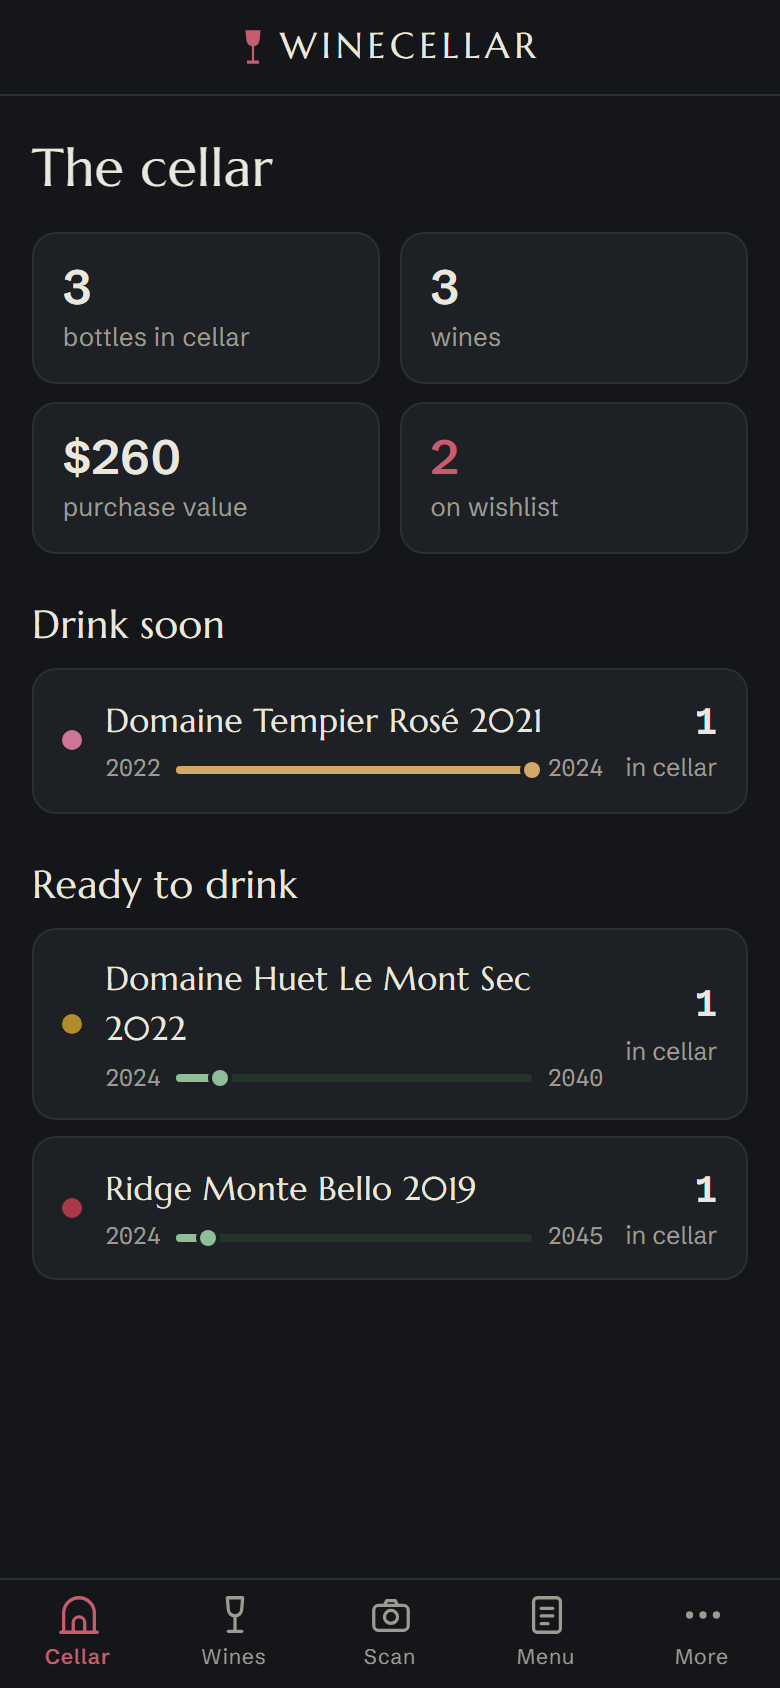
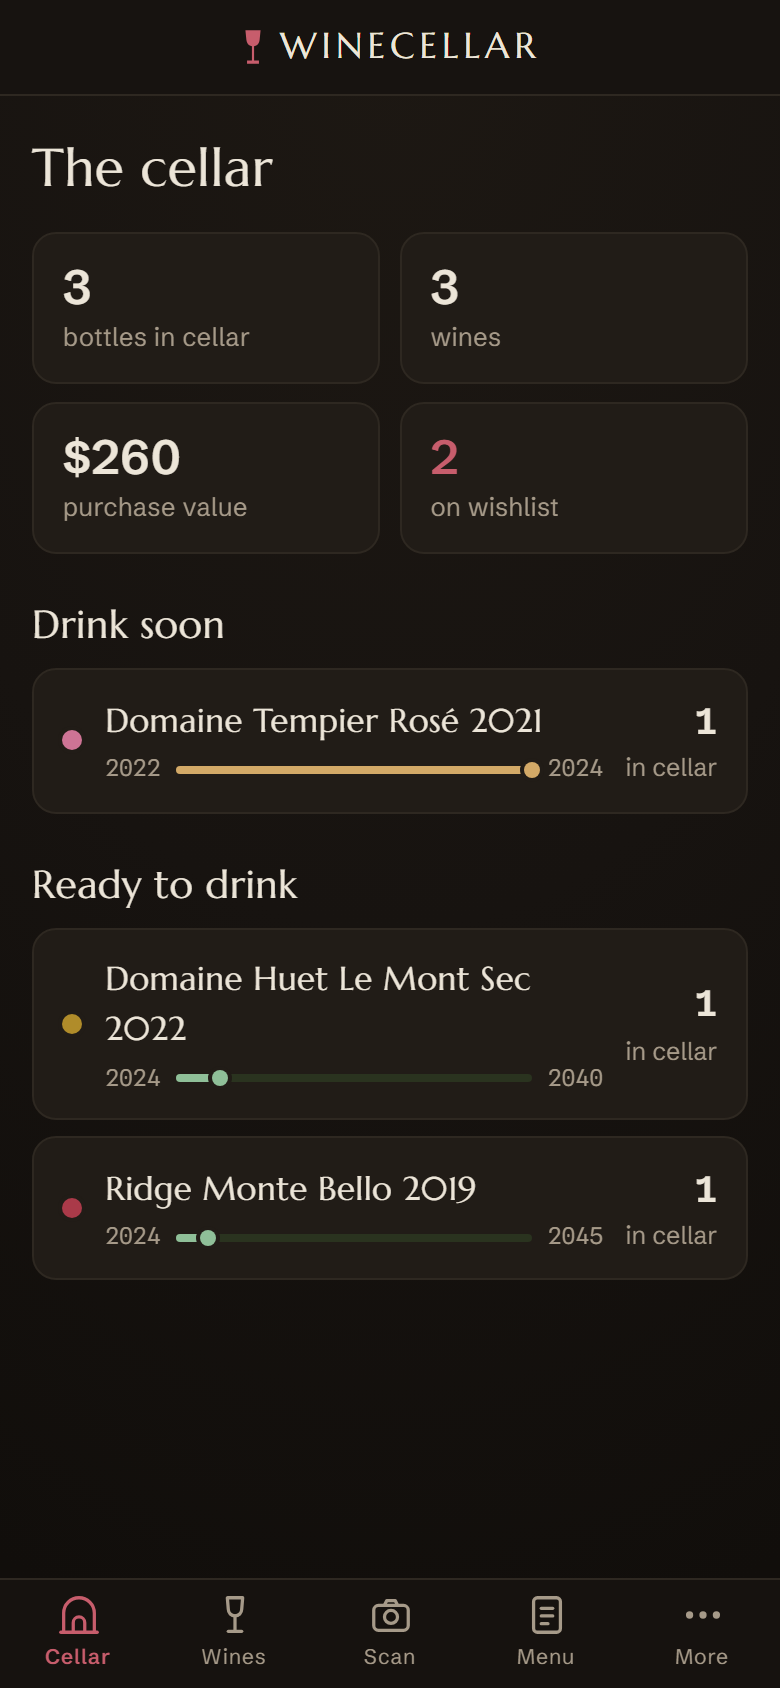
dark theme: the lodge — warm umber + lamplight vignette
Replaces the cool-slate dark ground (read as generic near-black) with
chalk-on-old-oak after the Cockburn's port lodges in Porto (the owner's
reference). Dark UMBER deliberately, not barrel-brown — the ground must
stay outside the wine gamut or the straw dots and tawny gauges dissolve
(dots revalidated against #211C17, same results). Vignette via fixed
body::before (iOS ignores background-attachment: fixed); translucent
blurred header; theme-color + design book updated, plates retaken.

Changed region(s): [[0.1538, 0.7085, 0.1846, 0.7393], [0.1231, 0.1848, 0.1538, 0.2156], [0.0923, 0.2773, 0.1231, 0.3081]]

diff --git a/static/css/app.css b/static/css/app.css
@@ -57,25 +57,45 @@
 
 @media (prefers-color-scheme: dark) {
     :root {
-        /* the cellar: warm chalk on cool slate */
-        --bg: #141619;
-        --surface: #1D2024;
-        --surface-alt: #282B30;
-        --ink: #EAE7DE;
-        --ink-muted: #9C9A91;
-        --line: #34373C;
-        --hairline: #2B2E33;
+        /* the lodge: chalk on old oak, lamplight falling off at the edges
+           (after the Cockburn's port lodges, Porto — the owner, 2026-07-16).
+           Dark UMBER, deliberately not barrel-brown: any lighter/browner and
+           the straw dots + tawny gauges dissolve into the ground (measured —
+           dots revalidated against #211C17, see docs/design.md). */
+        --bg: #171310;
+        --surface: #211C17;
+        --surface-alt: #2C2620;
+        --ink: #ECE5D8;
+        --ink-muted: #A69A89;
+        --line: #3A332A;
+        --hairline: #2E2821;
         --accent: #C75D6C;
         --accent-strong: #B24B5B;
-        --on-accent: #16181B;
-        --ok: #8FBF98;      --ok-soft: #243428;
-        --info: #9FB4D8;    --info-soft: #232B3A;
-        --warn: #D3A967;    --warn-soft: #352B1B;
-        --bad: #DA8A7B;     --bad-soft: #3B241F;
+        --on-accent: #1B1613;
+        --ok: #8FBF98;      --ok-soft: #2A331F;
+        --info: #9FB4D8;    --info-soft: #272C36;
+        --warn: #D3A967;    --warn-soft: #372C19;
+        --bad: #DA8A7B;     --bad-soft: #3B241C;
         --glass-red: #AA3A49;
         --glass-white: #B08C2A;
         --glass-rose: #CE7495;
-        --tab-bg: rgba(20, 22, 25, 0.9);
+        --tab-bg: rgba(23, 19, 16, 0.9);
+    }
+
+    /* The vignette: a fixed lamplight falloff behind everything.
+       (A ::before layer, not background-attachment — iOS ignores `fixed`.) */
+    body::before {
+        content: "";
+        position: fixed;
+        inset: 0;
+        z-index: -1;
+        background: radial-gradient(130% 100% at 50% 0%, #1D1813 0%, #171310 55%, #110E0B 100%);
+    }
+
+    .site-header {
+        background: rgba(29, 24, 19, 0.88);
+        -webkit-backdrop-filter: blur(10px);
+        backdrop-filter: blur(10px);
     }
 }
 

diff --git a/templates/base.html b/templates/base.html
@@ -15,7 +15,7 @@
     <meta name="apple-mobile-web-app-status-bar-style" content="black-translucent">
     <meta name="apple-mobile-web-app-title" content="Winecellar">
     <meta name="theme-color" media="(prefers-color-scheme: light)" content="#F2F1EC">
-    <meta name="theme-color" media="(prefers-color-scheme: dark)" content="#141619">
+    <meta name="theme-color" media="(prefers-color-scheme: dark)" content="#171310">
 </head>
 <body>
 <header class="site-header">

diff --git a/docs/design.md b/docs/design.md
@@ -5,6 +5,14 @@ book — engraved estate type, ledger numerals, and the colors of wine itself.
 Designed **dark-first** (a cellar is dark; the app gets used in dim restaurants
 and at the rack); light mode is the tasting sheet.
 
+Dark is **"the lodge"**: chalk on old oak with a lamplight vignette, after the
+Cockburn's port lodges in Porto (the owner's reference, 2026-07-16 — it replaced an
+earlier cool-slate ground that read as generic near-black). It is dark *umber*,
+deliberately not barrel-brown: the ground sits just outside the wine gamut so
+the straw dots and tawny gauges stay legible — any lighter/browner and they
+dissolve (measured; dots revalidated against `#211C17`, same results as slate,
+garnet WARN 2.74 with the always-present type word as relief).
+
 ## The book — reference plates
 
 Committed renders of the shipped identity (iPhone size, seeded demo data).
@@ -18,12 +26,12 @@ workflow at the bottom of this doc.
 
 ## Grounds
 
-| Token | Light ("tasting sheet") | Dark ("the cellar") |
+| Token | Light ("tasting sheet") | Dark ("the lodge") |
 |---|---|---|
-| `--bg` | `#F2F1EC` cool bone (deliberately not warm cream) | `#141619` cool slate |
-| `--surface` | `#FBFAF7` | `#1D2024` |
-| `--surface-alt` | `#E9E8E1` | `#282B30` |
-| `--ink` | `#26282B` graphite | `#EAE7DE` **warm chalk** (chalk-on-slate is the dark identity) |
+| `--bg` | `#F2F1EC` cool bone (deliberately not warm cream) | `#171310` dark umber + fixed radial vignette (`body::before`) |
+| `--surface` | `#FBFAF7` | `#211C17` |
+| `--surface-alt` | `#E9E8E1` | `#2C2620` |
+| `--ink` | `#26282B` graphite | `#ECE5D8` **chalk** (chalk-on-oak is the dark identity) |
 | `--accent` | `#87293C` garnet | `#C75D6C` |
 
 Garnet is **reserved** — primary buttons, active tab, links. Never paint